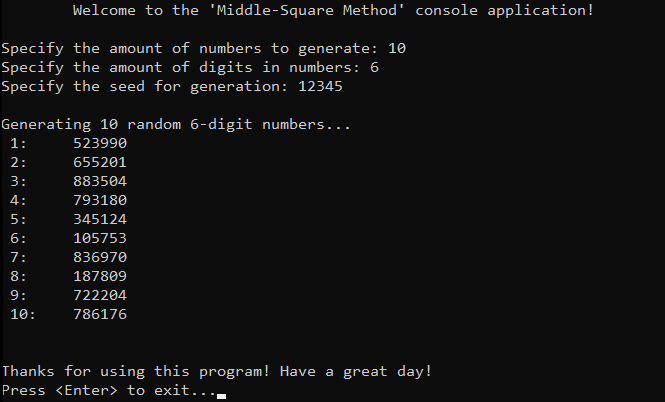
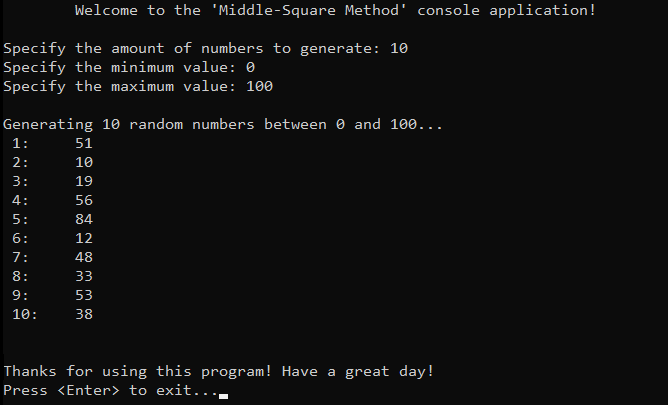
Refactor 'MiddleSquareMethod': ranges, unsigned long long, inc guards.

diff --git a/Algorithms/RNG/MiddleSquareMethod/Source/Main.cpp b/Algorithms/RNG/MiddleSquareMethod/Source/Main.cpp
@@ -1,9 +1,10 @@
-// Middle-Square Method Simplified Implementation
+// Middle-Square Method
 // by vezzolter
 // March 21, 2024
 //
 // This C++ project demonstrates the simplified implementation of a 
-// random number generation using the PRNG named Middle-Square Method.
+// random number generation using the PRNG named Middle-Square Method
+
 
 #include <iostream>
 #include "MiddleSquareMethod.h"
@@ -13,29 +14,21 @@ int main() {
 	// Greet
 	std::cout << "\tWelcome to the 'Middle-Square Method' console application!\n\n";
 
-	//// Preliminaries for testing
-	//int numbers = 100;
-	//int digits = 5;
-	//int seed = 12345;
-
 	// Prompt user for input
 	std::cout << "Specify the amount of numbers to generate: ";
 	int numbers = 0;
 	std::cin >> numbers;
-	std::cout << "Specify the amount of digits in numbers: ";
-	int digits = 0;
-	std::cin >> digits;
-	std::cout << "Specify the seed for generation: ";
-	int seed = 0;
-	std::cin >> seed;
+	std::cout << "Specify the minimum value: ";
+	int minVal = 0;
+	std::cin >> minVal;
+	std::cout << "Specify the maximum value: ";
+	int maxVal = 0;
+	std::cin >> maxVal;
 
-	// Generate random numbers
-	std::cout << "\nGenerating " << numbers << " random " << digits << "-digit numbers...\n";
-	for (int i = 0; i < numbers; ++i) {
-		int randomNumber = middleSquareMethod(seed, digits);
-		std::cout << " " << i + 1 << ":\t" << randomNumber << std::endl;
-		seed = randomNumber; // Step 4: Use extracted digits as the new seed value.
-	}
+	// Generate random numbers within the user-defined range
+	std::cout << "\nGenerating " << numbers << " random numbers between " << minVal << " and " << maxVal << "...\n";
+	for (int i = 0; i < numbers; i++)
+		std::cout << " " << i + 1 << ":\t" << (minVal + (middleSquareMethod() % (maxVal - minVal + 1))) << std::endl;
 	std::cout << std::endl;
 
 	// Exit

diff --git a/Algorithms/RNG/MiddleSquareMethod/Source/MiddleSquareMethod.cpp b/Algorithms/RNG/MiddleSquareMethod/Source/MiddleSquareMethod.cpp
@@ -1,21 +1,21 @@
-// Source file for middle-square method algorithm.
+// Source file for middle-square method
 // by vezzolter
 // March 21, 2024
 
+
 #include <cmath>
-#include <iostream>
 #include "MiddleSquareMethod.h"
 
 
-int middleSquareMethod(int seed, int digits) {
-    long long squared = static_cast<long long>(seed) * seed;
+unsigned long long seed = 12345;
+const int digits = 4;
 
-    // Extract the middle digits
-    int power = 1;
-    for (int i = 0; i < digits; ++i)
-        power *= 10;
-    int shift = (digits % 2 == 0) ? digits / 2 : (digits + 1) / 2;
-    int randomNumber = (squared / static_cast<long long>(pow(10, shift - 1))) % power;
 
+unsigned long long middleSquareMethod() {
+    unsigned long long squared = seed * seed;
+    int power = static_cast<int>(pow(10, digits));
+    int shift = digits / 2;
+    unsigned long long randomNumber = (squared / static_cast<unsigned long long>(pow(10, shift))) % power;
+    seed = randomNumber;
     return randomNumber;
 }

diff --git a/Algorithms/RNG/MiddleSquareMethod/Include/MiddleSquareMethod.h b/Algorithms/RNG/MiddleSquareMethod/Include/MiddleSquareMethod.h
@@ -1,8 +1,13 @@
-// Header file for middle-square method algorithm.
+// Header file for middle-square method
 // by vezzolter
 // March 21, 2024
 
-#pragma once
+
+#ifndef MSM_H
+#define MSM_H
 
 
-int middleSquareMethod(int seed, int digits);
+unsigned long long middleSquareMethod();
+
+
+#endif //MSM_H

diff --git a/Algorithms/RNG/MiddleSquareMethod/MiddleSquareMethod.md b/Algorithms/RNG/MiddleSquareMethod/MiddleSquareMethod.md
@@ -35,9 +35,9 @@ E.g. $seed = 3792$; $seed = 8256$.
 
 
 ## Algorithm Steps
-1. Choose an initial seed value, which is typically a number with multiple digits.
+1. Choose an initial seed value.
 2. Square the seed value to get a larger number.
-3. Extract a middle portion of digits from the result, typically with the same amount of digits as seed has.
+3. Extract a middle portion of digits from the result (typically with the same amount of digits as seed has).
 4. Use extracted digits as the new seed value.
 5. Repeat this process to generate required amount of numbers.
 
@@ -51,55 +51,48 @@ The program prompts the user to enter the required amount of numbers, digits and
 ## Design Decisions
 To prioritize simplicity and emphasize algorithm itself, several design decisions were made:
 - Using fixed seed value to ensure reproducible results.
-- Assuming valid input values from the user.
-- Utilizing only raw generated elements.
-- Omitting certain optimizations to the algorithm.
+- Choosing range values that are easily interpretable by humans ($0-100$).
 - Limiting the number of elements to relatively small ($10$).
+- Assuming valid input values from the user.
+- Omitting certain optimizations to the algorithm.
 
 
 ## Complete Implementation
 PRNG algorithm implemented within the function `middleSquareMethod()`, which is declared in `MiddleSquareMethod.h` header file and defined in `MiddleSquareMethod.cpp` source file. This approach is adopted to ensure encapsulation, modularity and compilation efficiency. Examination of generated values is conducted within the `main()` function located in the `Main.cpp` file. Below you can find related code snippets.
 
 ```cpp
-int middleSquareMethod(int seed, int digits) {
-    long long squared = static_cast<long long>(seed) * seed;
-
-    // Extract the middle digits
-    int power = 1;
-    for (int i = 0; i < digits; ++i)
-        power *= 10;
-    int shift = (digits % 2 == 0) ? digits / 2 : (digits + 1) / 2;
-    int randomNumber = (squared / static_cast<long long>(pow(10, shift - 1))) % power;
-
-    return randomNumber;
-}
-
-// Generate random numbers
-std::cout << "\nGenerating " << numbers << " random " << digits << "-digit numbers...\n";
-for (int i = 0; i < numbers; ++i) {
-	int randomNumber = middleSquareMethod(seed, digits);
-	std::cout << " " << i + 1 << ":\t" << randomNumber << std::endl;
-	seed = randomNumber; // Step 4: Use extracted digits as the new seed value.
+unsigned long long middleSquareMethod() {
+  unsigned long long squared = seed * seed;
+  int power = static_cast<int>(pow(10, digits));
+  int shift = digits / 2;
+  unsigned long long randomNumber = (squared / static_cast<unsigned long long>(pow(10, shift))) % power;
+  seed = randomNumber;
+  return randomNumber;
 }
 ```
 
 ## Detailed Walkthrough
-1. Calculate teh square of the seed value. Since the result of multiplying two int values could overflow, the seed is cast to a long long before multiplication to ensure that the result fits in the data type.
+1. The first step is to square the current seed. Since squaring can result in large numbers that may overflow, the seed is cast to unsigned long long before multiplication to ensure the result fits in the data type.
 ```cpp
-  long long squared = static_cast<long long>(seed) * seed;
+  unsigned long long squared = seed * seed;
 ```
-2. The most tricky part is extracting middle digits. Because of the conditional logic, that the number of digits to extract depends on whether the total number of digits is even or odd, it can be implemented differently for different needs, or excessively complicated to be a good "one-size-fits-all". Nevertheless, current implementation merely do the basics and have lots of troubles if you try to find them.
+2. The key challenge of the middle-square method is extracting the middle digits. The number of digits extracted depends on the total number of digits in the squared value, with adjustments based on whether the digit count is even or odd. The current implementation uses basic logic, and while it serves most basic use cases, it could be adapted or optimized for specific requirements. The digit extraction is straightforward, but edge cases may introduce issues if not handled carefully.
 ```cpp
-  int power = 1;
-  for (int i = 0; i < digits; ++i)
-      power *= 10;
-  int shift = (digits % 2 == 0) ? digits / 2 : (digits + 1) / 2;
-  int randomNumber = (squared / static_cast<long long>(pow(10, shift - 1))) % power;
+  int power = static_cast<int>(pow(10, digits));
+  int shift = digits / 2;
+  unsigned long long randomNumber = (squared / static_cast<unsigned long long>(pow(10, shift))) % power;
 ```
-3. In the end, the new seed is returned, which can be used later in code to recreate a Middle-Square Method.
+3. After extracting the middle digits, the new value becomes the updated seed, which is stored for future iterations. This new seed is returned for further use in the next iteration.
 ```cpp
+  seed = randomNumber;
   return randomNumber;
 ```
+4. To make the generated value more practical and human-readable, a user-defined range can be applied. The range is defined by `maxVal` and `minVal`, which translates to `[minVal, maxVal)` and adding $1$ ensures inclusivity of the maximum value, resulting in the range `[minVal, maxVal]`. The modulo operator is then used to confine the PRNG output within `[0, range]`. Adding `minVal` shifts the range to `[minVal, maxVal]`, ensuring the final value is within the user’s desired range, therefore can be tested easily.
+```cpp
+	for (int i = 0; i < numbers; i++)
+		std::cout << " " << i + 1 << ":\t" << (minVal + (middleSquareMethod() % (maxVal - minVal + 1))) << std::endl;
+```
+
 
 
 # &#128202; Analysis
